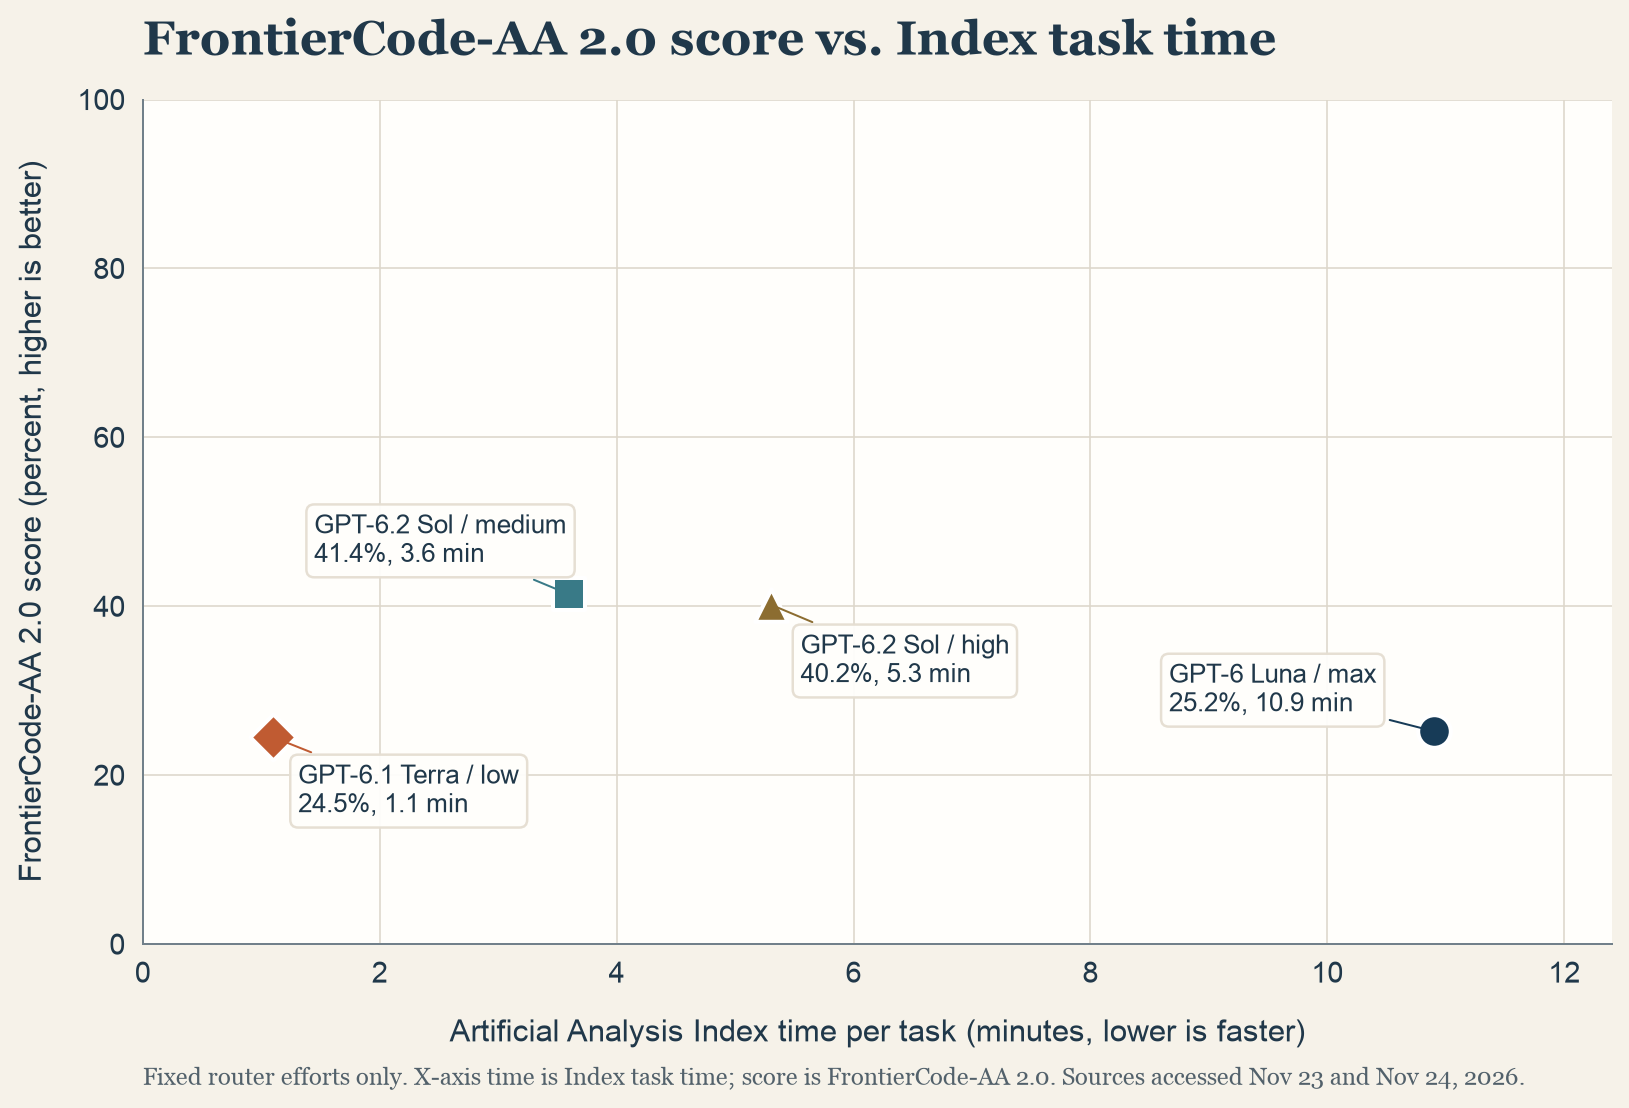
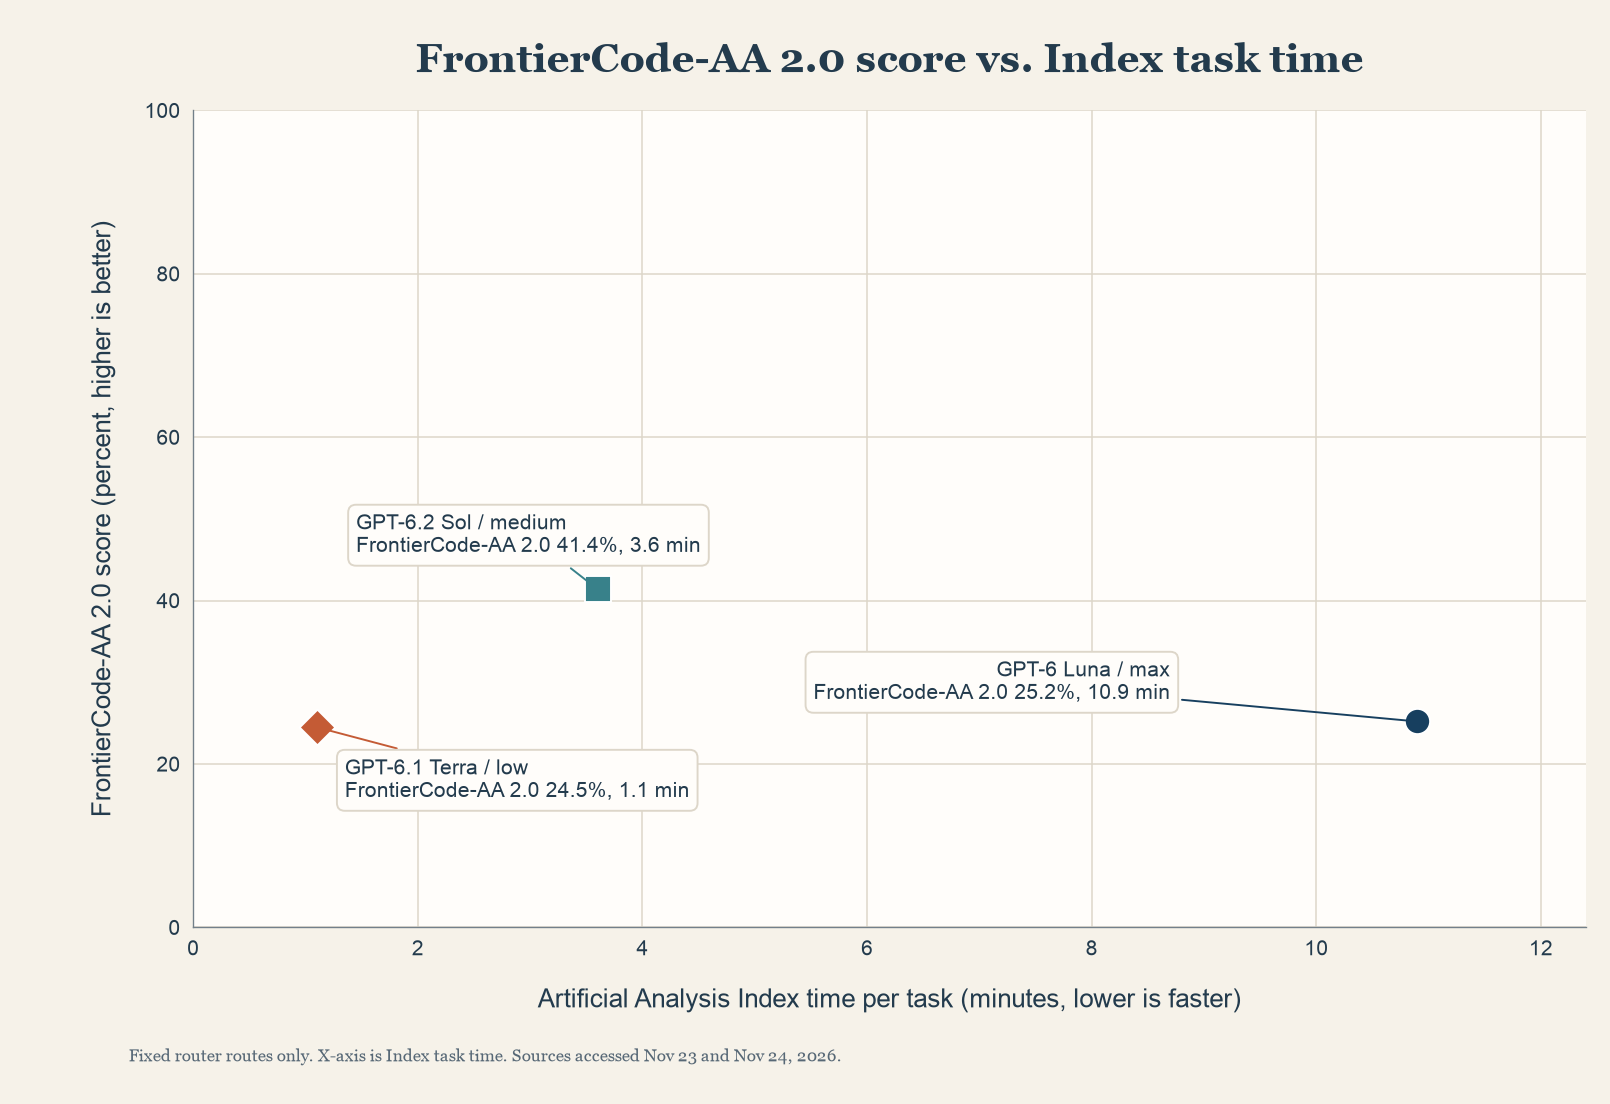
Route parent and subagent tasks by difficulty

diff --git a/SKILL.md b/SKILL.md
@@ -1,17 +1,16 @@
 ---
 name: codex-budget-model-router
 description: >-
-  Route Codex parent and subagent work to the most token-efficient and cost-efficient
-  capable model for each task. Keep the parent on GPT-6 Luna / max, routine
-  subagent tasks on GPT-6.1 Terra / low, and computer-use subagents on GPT-6
-  Luna / max.
+  Route Codex parent and subagent work by task difficulty. Use GPT-6 Luna / max
+  for routine Easy and Medium tasks, GPT-6.1 Terra / low for routine Hard tasks,
+  and GPT-6.2 Sol / medium for complex or high-risk implementation.
 ---
 
 # Codex Budget Model Router
 
 Independent community project. Not affiliated with or endorsed by OpenAI.
 
-Use this skill when Codex work can benefit from scoped subagents. The parent/main agent stays on GPT-6 Luna / max. The model picker routes subagents only; it never changes the parent. Any other model or provider must run in a scoped subagent.
+Use this skill before selecting a parent model or routing a subagent. Apply the same routine tiers to parent and subagent tasks. The parent model must be selected before the task starts; the subagent picker cannot change an already-running parent.
 
 The parent owns the user's goal, task split, shared files, integration, verification, and acceptance. It handles routine work from small to high when delegation does not improve delivery. It gathers child results and verifies them before accepting the outcome.
 
@@ -19,38 +18,37 @@ The parent owns the user's goal, task split, shared files, integration, verifica
 
 Choose the least usage-expensive model that still meets the task's quality, tool, and risk needs. Do not choose the strongest model by default. Count the parent's context, child work, tool calls, retries, repair, review, integration, and time when judging efficiency.
 
-Real Codex usage testing found GPT-6 Luna / max significantly more usage-expensive than GPT-6.1 Terra / low. Route routine subagent tasks from small through high to Terra / low. Keep Luna / max for the parent, computer-use subagents, and nonroutine work that needs independent high-assurance review or coordination.
+Use GPT-6 Luna / max for routine Easy and Medium tasks. Use the faster GPT-6.1 Terra / low route only for routine Hard tasks. Use GPT-6.2 Sol / medium for complex or high-risk implementation, including work previously assigned a higher Sol effort. Routine agentic work follows the same difficulty tiers; use Luna / max for computer use, nonroutine consequential review, and coordination when its capabilities materially help.
 
 ## Model-to-task breakdown
 
 | Work | Owner and model | Reason |
 |---|---|---|
-| Parent work, including routine tasks from small to high | Parent: GPT-6 Luna / max | Fixed parent route; the child picker never changes it. |
-| Routine subagent tasks from small through high, including coding, research, audit, routine review, and verification | Subagent: GPT-6.1 Terra / low | Use the lowest-cost tested route that remains capable for routine work. |
+| Parent or subagent: routine Easy and Medium tasks | GPT-6 Luna / max | Shared routine baseline for both roles. |
+| Parent or subagent: routine Hard tasks | GPT-6.1 Terra / low | Faster Index task time; reserve for hard routine work where speed matters. |
 | Computer-use subagent tasks | Computer-use-capable subagent: GPT-6 Luna / max | Use Luna / max for delegated computer interaction. Confirm the child has the required computer-use tools. |
 | Nonroutine consequential independent review | Subagent: GPT-6 Luna / max | Use only when stronger independent assurance materially improves confidence. |
-| Hard, complex, or high-risk implementation | Subagent: GPT-6.2 Sol / medium | Use when the task needs stronger reasoning or integration. |
-| Ultra-complex implementation estimated under 10 minutes | Subagent: GPT-6.2 Sol / high | Use medium when duration is 10 minutes or more, or unknown. |
+| Parent or subagent: complex or high-risk implementation | GPT-6.2 Sol / medium | Use when the task needs stronger reasoning or integration. |
 | Coordination for at least three dependent scopes | Optional subagent: GPT-6 Luna / max | Use only when dedicated coordination materially helps. |
 | Astra | Child by current-task user request only | Never select automatically. |
 
 A GPT-6 Luna / max child may be used for computer work only when the selected child also has the required tools. Select a runtime-supported role, set `model` and `reasoning_effort` explicitly, and verify the observed child route. A role name alone does not prove the model or effort.
 
-This skill cannot change a running parent's model. Configure the host to start the parent on Luna / max. If current runtime metadata shows another route, report the mismatch and do not claim the parent route changed.
+The router cannot change a running parent's model. Configure the host with the selected parent route before the task starts. If the host cannot set or verify that route, keep the actual route and report the limitation.
 
 ## Plus usage
 
-ChatGPT Plus is currently listed at $20/month and includes Codex usage subject to plan and account limits. This router helps Plus users make that allowance last. Its working assumption is that routine assignments often gain little practical value from higher model or effort settings, while those settings can consume substantially more usage. Start with the lowest-cost tested route that remains capable, then escalate when complexity, risk, or observed results warrant it. Treat this as a budget heuristic, not a guarantee. API token prices are separate from subscription usage and do not predict Plus usage. Verify current pricing, model availability, and usage limits because they can change. See [ChatGPT Plus](https://help.openai.com/en/articles/6950777-what-is-chatgpt-plus), [Using Codex with your ChatGPT plan](https://help.openai.com/en/articles/11369540-using-codex-with-your-chatgpt-plan), and [Codex usage limits](https://help.openai.com/en/articles/20001625-understanding-chatgpt-and-codex-usage-limits).
+This router targets ChatGPT Plus at $20/month and aims to keep included Codex use affordable. It routes routine Easy and Medium work to Luna / max, routine Hard work to the faster Terra / low route, and complex or high-risk implementation to Sol / medium. OpenAI sets plan usage separately from API pricing, and actual use varies by model, task, context, reasoning, speed, and tools. Verify current model availability and usage limits. See [ChatGPT Plus](https://help.openai.com/en/articles/6950777-what-is-chatgpt-plus), [Using Codex with your ChatGPT plan](https://help.openai.com/en/articles/11369540-using-codex-with-your-chatgpt-plan), and [Codex usage limits](https://help.openai.com/en/articles/20001625-understanding-chatgpt-and-codex-usage-limits).
 
 ## Dispatch and escalation
 
 1. Keep simple work with the parent when delegation overhead exceeds the gain.
-2. Route routine child work from small through high to GPT-6.1 Terra / low.
-3. Route computer-use subagents to GPT-6 Luna / max and confirm they have the required tools.
+2. Use GPT-6 Luna / max for routine Easy and Medium work by the parent or a subagent.
+3. Use GPT-6.1 Terra / low for routine Hard work by the parent or a subagent.
 4. Split only independent or clearly bounded work.
 5. Give each child the task, context, allowed tools, exact write scope, success check, stop rule, and return format.
 6. Use `fork_turns: "none"` when the child needs a different route from the parent.
-7. Escalate only when evidence shows the routine Terra / low route is not enough. Use Sol / medium for hard, complex, or high-risk implementation. Use Sol / high only for ultra-complex work estimated under 10 minutes.
+7. Use GPT-6.2 Sol / medium for complex or high-risk implementation, including ultra-complex work.
 8. The parent collects child reports, integrates work, checks evidence, and owns final acceptance. Child completion is not final acceptance.
 9. If the runtime cannot set or verify the requested child model, effort, or required tools, keep the work with the parent instead of guessing.
 

diff --git a/README.md b/README.md
@@ -4,24 +4,25 @@ A standalone community skill for budget-aware Codex parent and subagent routing.
 
 ## Built for ChatGPT Plus Usage
 
-Built for ChatGPT Plus at $20/month. It aims to make included Codex usage last by sending routine work to the lowest-cost capable route, then escalating when risk or results warrant it. OpenAI controls the plan allowance separately from API token billing; actual use varies with model, task, context, reasoning, speed, and tools ([Plus](https://help.openai.com/en/articles/6950777-what-is-chatgpt-plus), [Codex plan usage](https://help.openai.com/en/articles/11369540-using-codex-with-your-chatgpt-plan), [usage limits](https://help.openai.com/en/articles/20001625-understanding-chatgpt-and-codex-usage-limits)).
+Built for ChatGPT Plus at $20/month, this router aims to keep included Codex use affordable. OpenAI sets plan usage separately from API pricing, and actual use depends on the model and task ([Plus](https://help.openai.com/en/articles/6950777-what-is-chatgpt-plus), [Codex usage](https://help.openai.com/en/articles/11369540-using-codex-with-your-chatgpt-plan), [limits](https://help.openai.com/en/articles/20001625-understanding-chatgpt-and-codex-usage-limits)).
 
 ## Model and Effort Routes
 
 | Work | Route | Why |
 | --- | --- | --- |
-| PARENT AGENT: Routine tasks (Easy to Hard) | GPT-6 Luna / max | Fixed parent route. The parent owns the task split, integration, verification, and final acceptance. |
-| SUBAGENT: Routine tasks (Easy to Hard) | GPT-6.1 Terra / low | About ten times faster on Artificial Analysis Index tasks. Its Standard API unit rate is higher, as shown below. |
-| SUBAGENT: Computer Use and Agentic Tasks | GPT-6 Luna / max | Use only when the child has the required tools or higher-assurance agentic work is needed. |
+| PARENT AGENT: Routine tasks (Easy and Medium) | GPT-6 Luna / max | Default for routine work that does not need the faster Hard route. |
+| PARENT AGENT: Routine Hard tasks | GPT-6.1 Terra / low | Faster Index task time; use it for hard routine work where speed matters. Its official API rate is higher than Luna's. |
+| SUBAGENT: Routine tasks (Easy and Medium) | GPT-6 Luna / max | Same routine tiers as the parent. |
+| SUBAGENT: Routine Hard tasks | GPT-6.1 Terra / low | Same faster route as the parent for hard routine work. |
+| SUBAGENT: Computer Use and nonroutine Agentic tasks | GPT-6 Luna / max | Confirm the child has the required tools; routine agentic work follows the same difficulty tiers. |
 | SUBAGENT: Nonroutine consequential review | GPT-6 Luna / max | Use when independent review materially improves confidence. |
-| SUBAGENT: Hard, complex, or high-risk implementation | GPT-6.2 Sol / medium | Use when stronger reasoning or integration is needed. |
-| SUBAGENT: Ultra-complex implementation estimated under 10 minutes | GPT-6.2 Sol / high | Use medium when the estimate is 10 minutes or more, or unknown. |
+| PARENT OR SUBAGENT: Complex or high-risk implementation | GPT-6.2 Sol / medium | Use for work beyond routine Hard tasks. |
 | SUBAGENT: Coordination for 3+ dependent scopes | GPT-6 Luna / max | Use only when dedicated coordination materially helps. |
 | SUBAGENT: Astra by current-task user request only | GPT-6.2 Astra; effort set per request | Never select automatically. |
 
 ## Parent and Subagents
 
-The parent is the foreman. It stays on GPT-6 Luna / max and owns the goal, task split, shared work, integration, verification, and acceptance. The model picker routes subagents only; a child never changes its parent.
+The parent is the foreman. Select its model before the task starts, using the same routine tiers as subagents. The parent owns the goal, task split, shared work, integration, verification, and acceptance. The subagent picker cannot change an already-running parent.
 
 ## Benchmark and Price Comparison
 
@@ -32,25 +33,24 @@ Artificial Analysis Intelligence Index v5.0.1 is a weighted composite score. Its
 | GPT-6 Luna / max | 28 | 25.2% | 10.9 min | $0.10 / $0.50 |
 | GPT-6.1 Terra / low | 29 | 24.5% | 1.1 min | $1.00 / $5.00 |
 | GPT-6.2 Sol / medium | 53 | 41.4% | 3.6 min | $2.00 / $10.00 |
-| GPT-6.2 Sol / high | 55 | 40.2% | 5.3 min | $2.00 / $10.00 |
 | GPT-6.2 Astra, effort varies by request | 46 to 62 | 45.4% at max; other efforts vary | 2.1 to 14.0 min | $8.00 / $40.00 |
 
-OpenAI's Standard API rate for Terra is ten times Luna's per token. These rates apply to API billing, not ChatGPT Plus or Codex plan allowances. OpenAI says plan usage varies with model, task, context, reasoning, speed, and tools.
+OpenAI's Standard API rate for Terra is ten times Luna's per token. These rates apply to API billing, not ChatGPT Plus or Codex plan allowances. OpenAI sets plan usage separately, and actual use varies by model, task, context, reasoning, speed, and tools.
 
-Astra is selected only when the user requests it, and its effort is not fixed by this router. Its row shows the available Index range; the charts below include only the four fixed routes.
+Astra is selected only when the user requests it, and its effort is not fixed by this router. Its row shows the available Index range; the charts below include only the three fixed routes.
 
 ## Benchmark Graphs
 
 Both plots use equal-sized markers and compare benchmark scores with Artificial Analysis Index time per task. The first plots the Index score; the second plots the separate FrontierCode score. OpenAI Standard API rates remain in the table, not the plots. The FrontierCode chart uses Index task time, not FrontierCode task time.
 
-![Artificial Analysis Index score versus Index task time for the four fixed routes](charts/intelligence-index-score-time.png)
+![Artificial Analysis Index score versus Index task time for the three fixed routes](charts/intelligence-index-score-time.png)
 
-![FrontierCode-AA 2.0 score versus Index task time for the four fixed routes](charts/frontiercode-score-time.png)
+![FrontierCode-AA 2.0 score versus Index task time for the three fixed routes](charts/frontiercode-score-time.png)
 
 ## Sources and Method
 
 - [Artificial Analysis OpenAI comparison](https://artificialanalysis.ai/providers/openai), accessed Nov 24, 2026, for Index scores and Index task time.
-- [FrontierCode-AA 2.0 filtered score view](https://artificialanalysis.ai/evaluations/frontiercode-2-0?models=gpt-6-luna%2Cgpt-6-1-terra-low%2Cgpt-6-2-sol-medium%2Cgpt-6-2-sol-high%2Cgpt-6-2-astra), accessed Nov 23, 2026, for coding scores. Artificial Analysis reports 132 tasks with three attempts per task.
+- [FrontierCode-AA 2.0 filtered score view](https://artificialanalysis.ai/evaluations/frontiercode-2-0?models=gpt-6-luna%2Cgpt-6-1-terra-low%2Cgpt-6-2-sol-medium%2Cgpt-6-2-astra), accessed Nov 23, 2026, for coding scores. Artificial Analysis reports 132 tasks with three attempts per task.
 - [OpenAI API model prices](https://developers.openai.com/api/docs/models) and [API pricing details](https://developers.openai.com/api/docs/pricing) for standard input and output rates.
 - [Artificial Analysis chart attribution guidance](https://artificialanalysis.ai/brand-kit/) for reproducing selected scores in credited charts.
 
